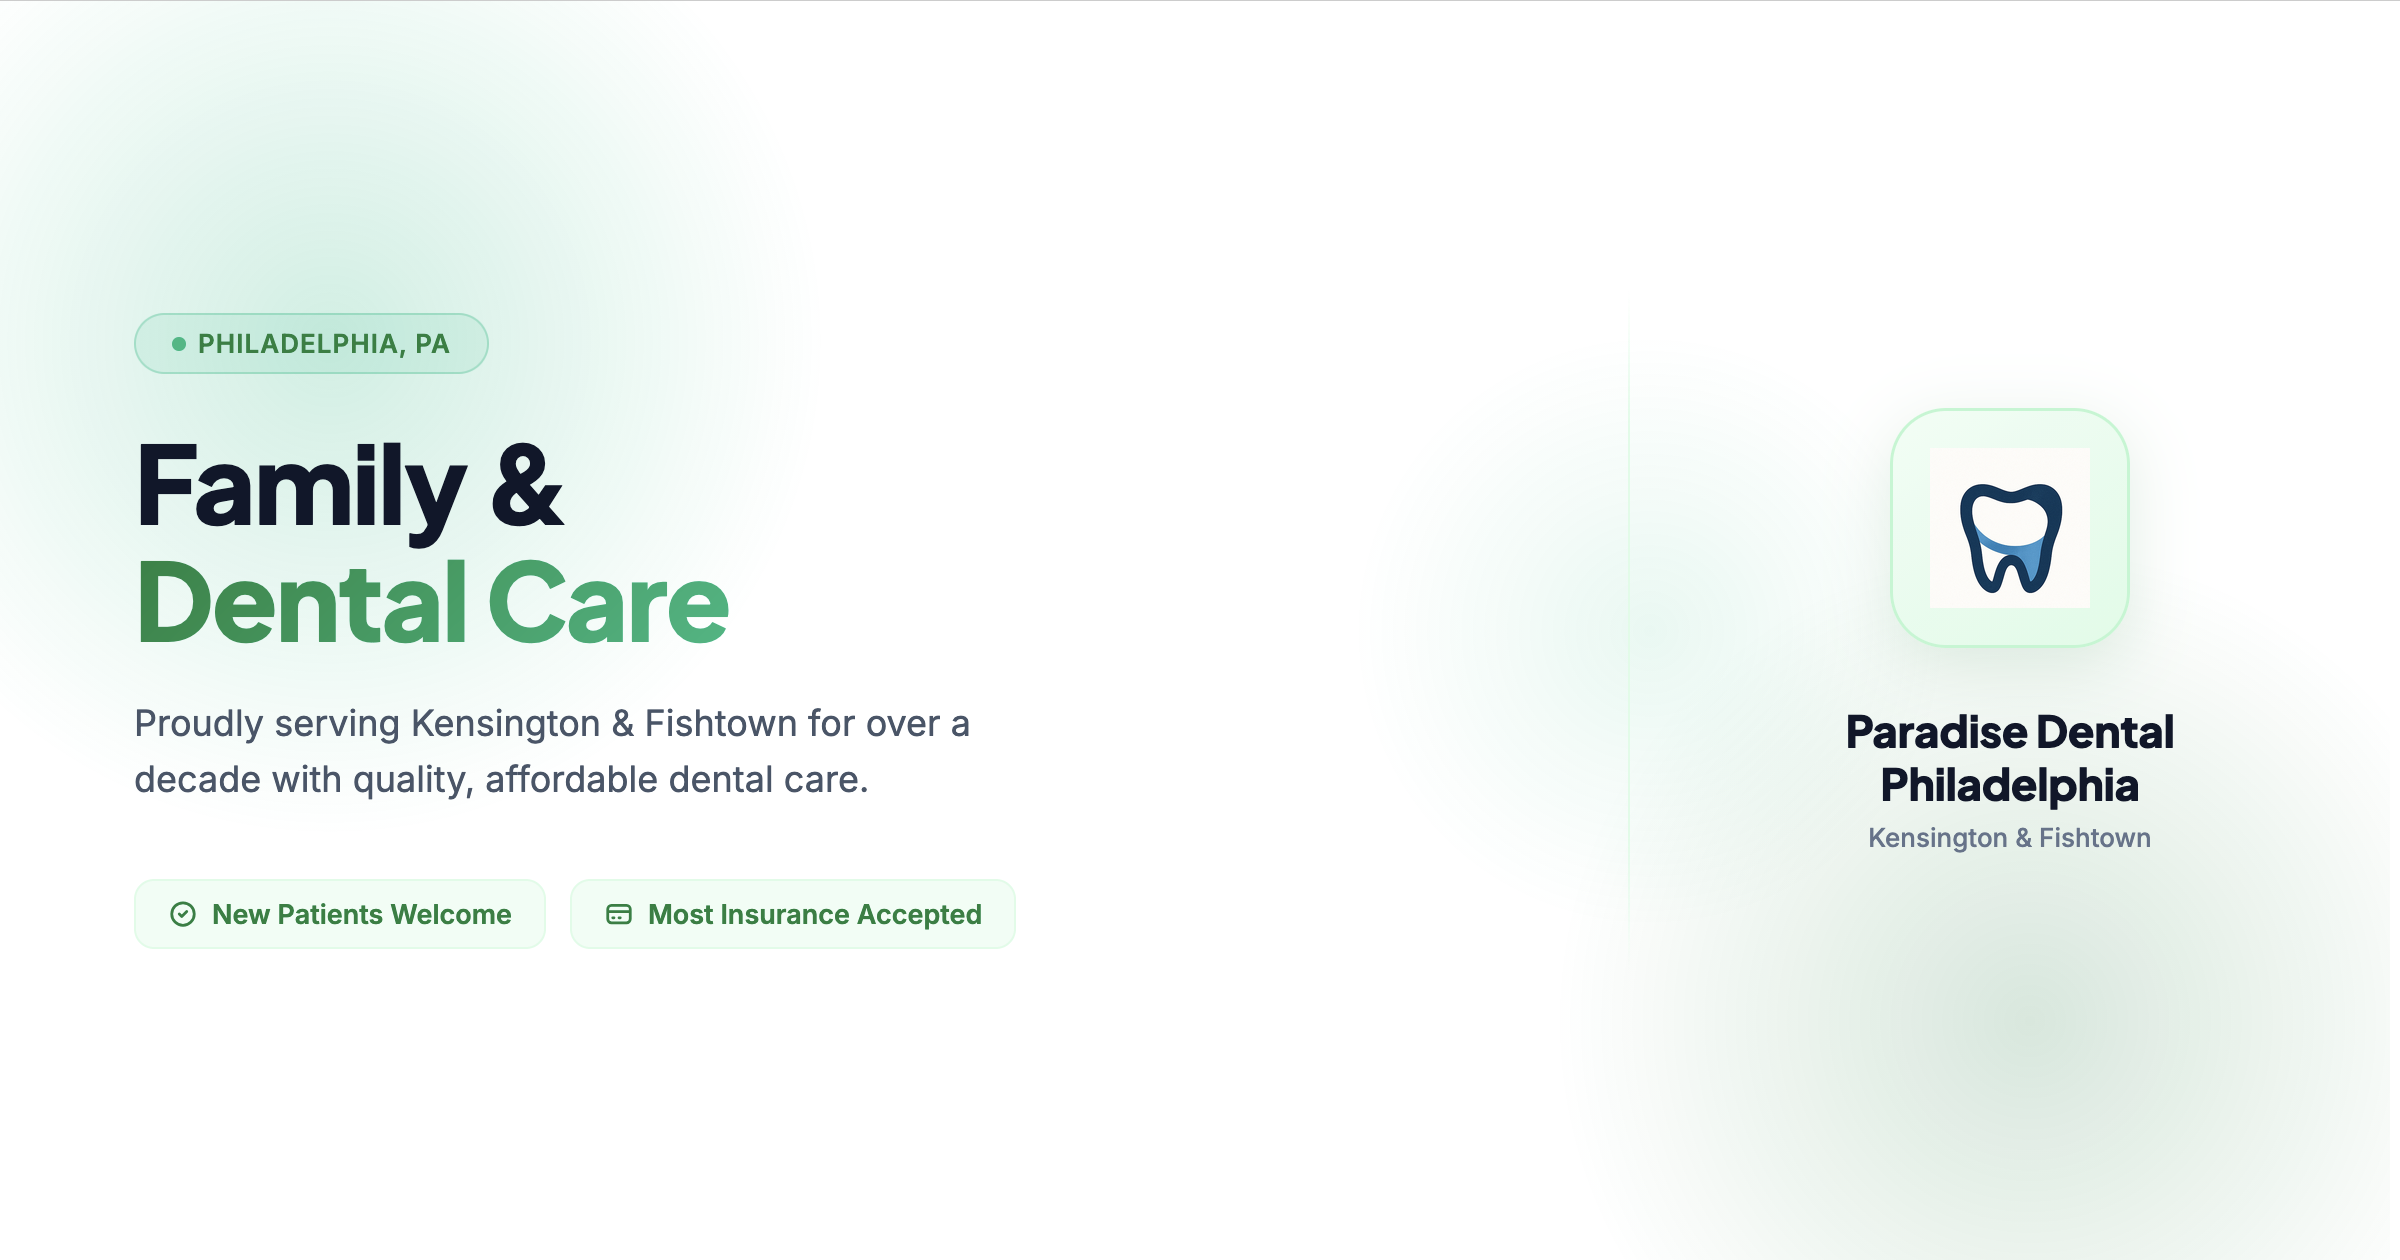
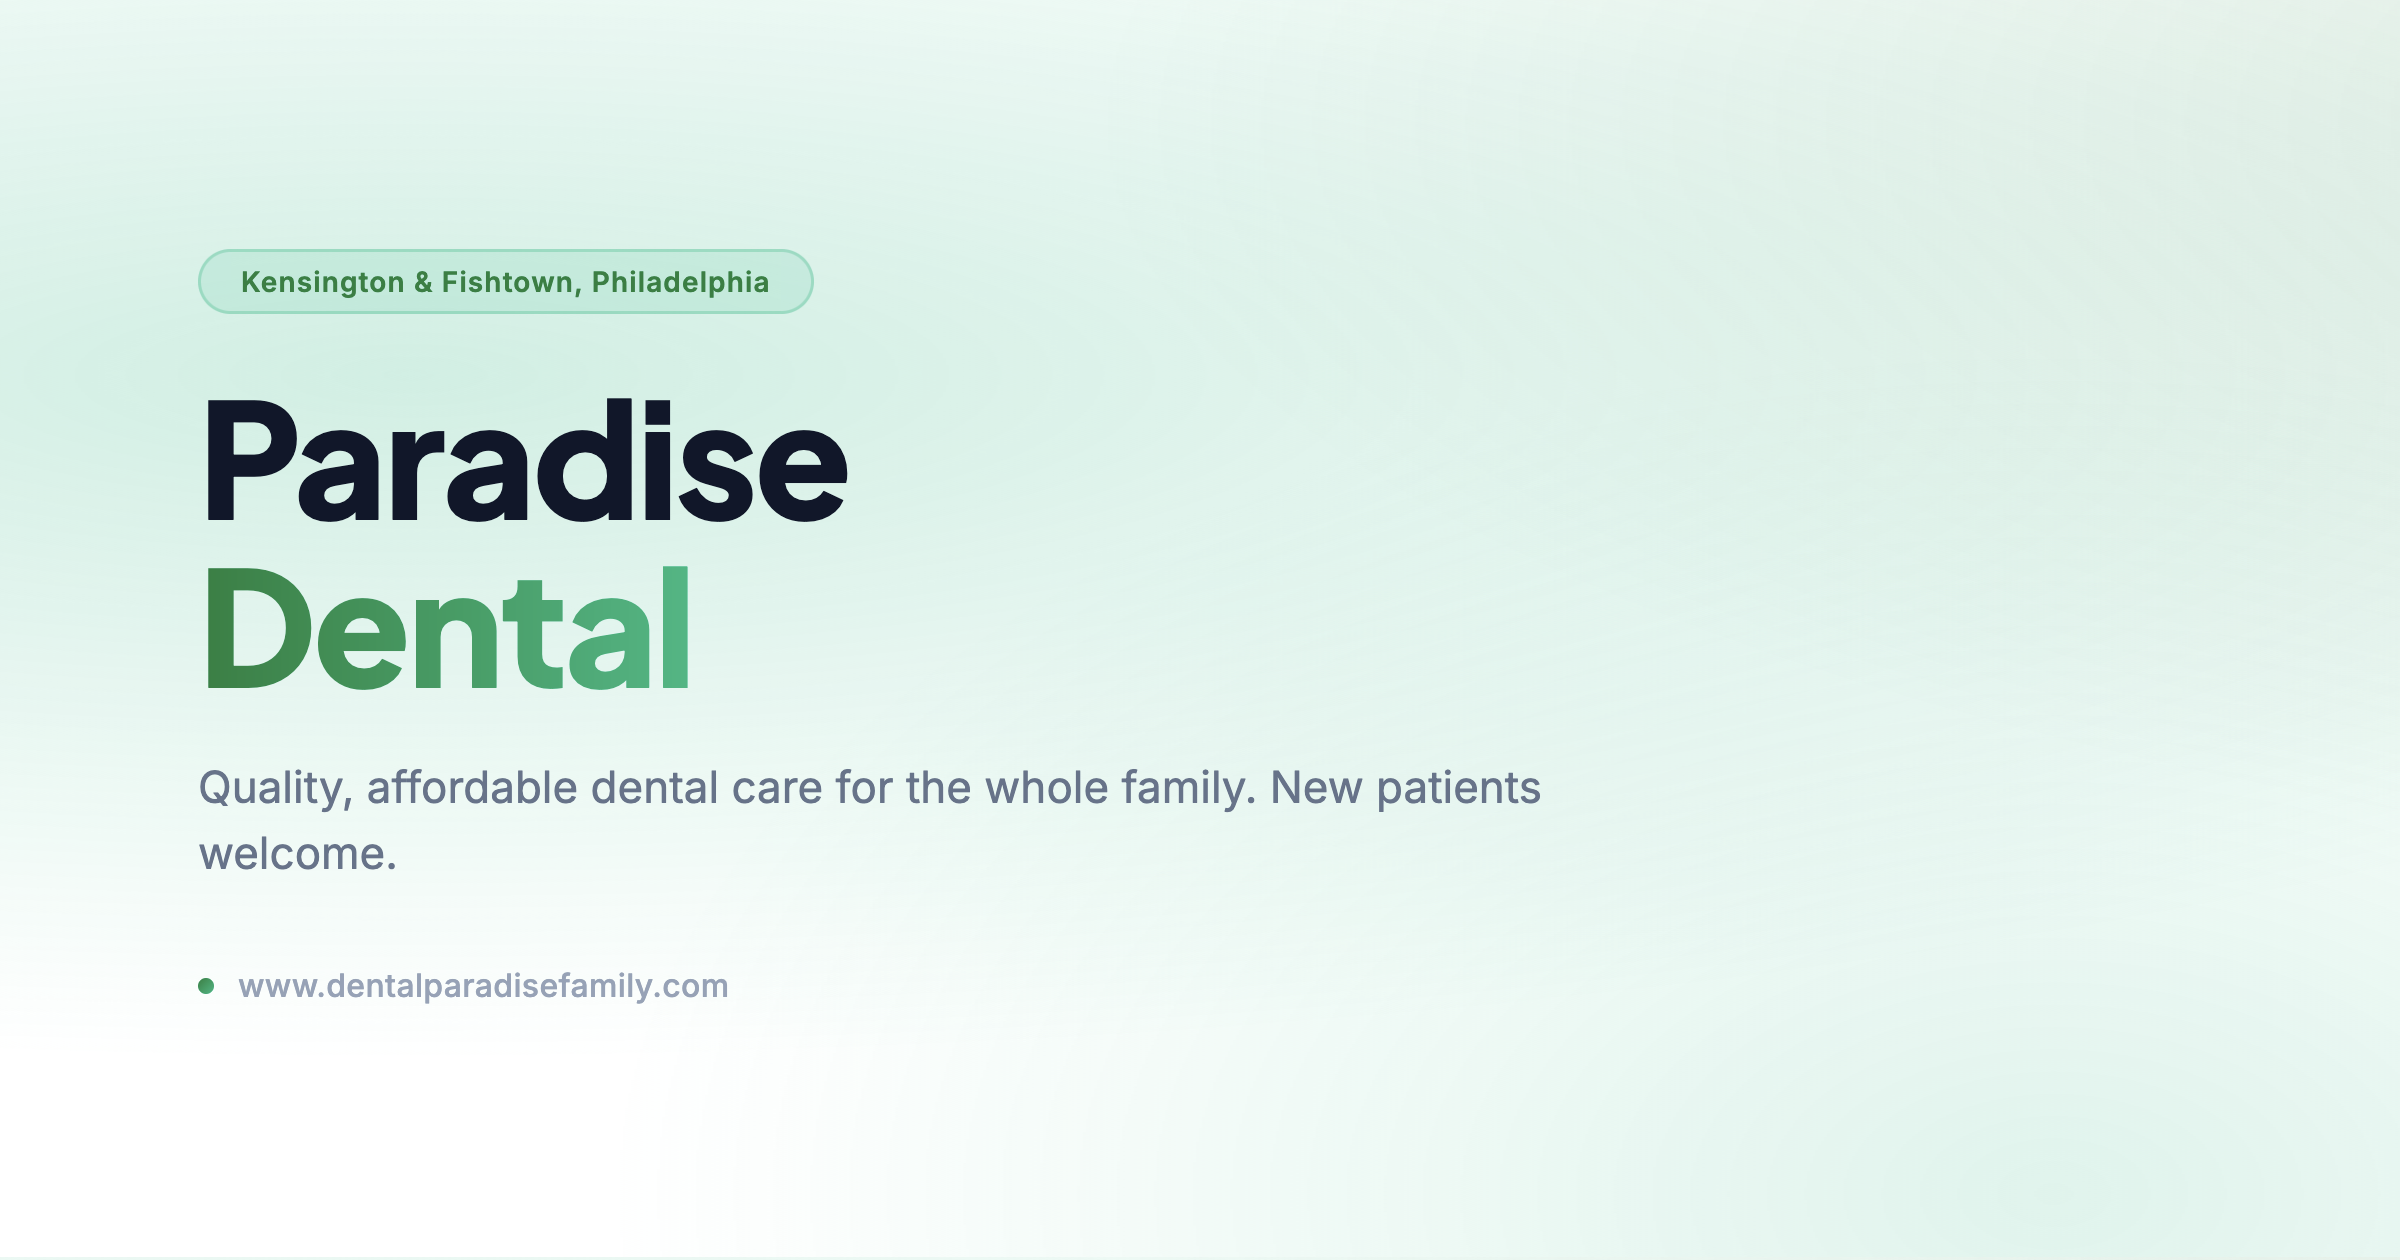
fixed image

diff --git a/og-card.html b/og-card.html
@@ -2,8 +2,8 @@
 <html lang="en">
 <head>
   <meta charset="UTF-8">
-  <meta name="viewport" content="width=1200">
-  <title>OG Card – Paradise Dental</title>
+  <meta name="viewport" content="width=device-width, initial-scale=1.0">
+  <title>OG Card — Paradise Dental</title>
   <link href="https://fonts.googleapis.com/css2?family=Inter:wght@400;500;600&family=Plus+Jakarta+Sans:wght@700;800&display=swap" rel="stylesheet">
   <style>
     * { margin: 0; padding: 0; box-sizing: border-box; }
@@ -13,234 +13,84 @@
       height: 630px;
       overflow: hidden;
       font-family: 'Inter', sans-serif;
-      background: #ffffff;
-    }
-
-    .card {
-      width: 1200px;
-      height: 630px;
-      position: relative;
-      display: flex;
-      align-items: center;
-      background: #ffffff;
-      overflow: hidden;
-    }
-
-    /* Green radial blobs */
-    .blob-tl {
-      position: absolute;
-      top: -80px; left: -80px;
-      width: 500px; height: 500px;
-      border-radius: 50%;
-      background: radial-gradient(circle, rgba(16,185,129,0.22) 0%, transparent 70%);
-      pointer-events: none;
-    }
-    .blob-br {
-      position: absolute;
-      bottom: -120px; right: -60px;
-      width: 480px; height: 480px;
-      border-radius: 50%;
-      background: radial-gradient(circle, rgba(21,128,61,0.18) 0%, transparent 70%);
-      pointer-events: none;
-    }
-    .blob-mid {
-      position: absolute;
-      top: 50%; right: 220px;
-      transform: translateY(-50%);
-      width: 300px; height: 300px;
-      border-radius: 50%;
-      background: radial-gradient(circle, rgba(16,185,129,0.10) 0%, transparent 70%);
-      pointer-events: none;
-    }
-
-    /* Left content pane */
-    .left {
-      position: relative;
-      z-index: 2;
-      flex: 1;
-      padding: 0 72px;
+      background-color: #ffffff;
+      background-image:
+        radial-gradient(ellipse at 10% 30%, rgba(16,185,129,0.22) 0%, transparent 55%),
+        radial-gradient(ellipse at 90% 10%, rgba(21,128,61,0.20) 0%, transparent 50%),
+        radial-gradient(ellipse at 50% 95%, rgba(16,185,129,0.15) 0%, transparent 50%);
       display: flex;
       flex-direction: column;
       justify-content: center;
-      gap: 0;
+      padding: 80px 100px;
     }
 
     .pill {
-      display: inline-flex;
-      align-items: center;
-      gap: 6px;
-      background: rgba(16,185,129,0.10);
-      border: 1px solid rgba(16,185,129,0.30);
+      display: inline-block;
+      background: rgba(16,185,129,0.12);
+      border: 1.5px solid rgba(16,185,129,0.3);
       color: #15803d;
       border-radius: 9999px;
-      padding: 6px 18px;
-      font-size: 13px;
+      padding: 6px 20px;
+      font-size: 14px;
       font-weight: 600;
       letter-spacing: 0.04em;
-      text-transform: uppercase;
+      margin-bottom: 28px;
       width: fit-content;
-      margin-bottom: 24px;
-    }
-    .pill-dot {
-      width: 7px; height: 7px;
-      border-radius: 50%;
-      background: #10b981;
     }
 
     h1 {
       font-family: 'Plus Jakarta Sans', sans-serif;
+      font-size: 80px;
       font-weight: 800;
-      font-size: 54px;
-      line-height: 1.08;
-      color: #0f172a;
+      line-height: 1.05;
       letter-spacing: -0.02em;
-      margin-bottom: 20px;
+      color: #0f172a;
+      margin-bottom: 24px;
     }
+
     h1 span {
-      background: linear-gradient(135deg, #15803d, #10b981);
+      background: linear-gradient(90deg, #15803d, #10b981);
       -webkit-background-clip: text;
       -webkit-text-fill-color: transparent;
       background-clip: text;
     }
 
-    .tagline {
-      font-size: 18px;
-      font-weight: 400;
-      color: #475569;
-      line-height: 1.55;
-      max-width: 420px;
-      margin-bottom: 36px;
-    }
-
-    .badges {
-      display: flex;
-      gap: 12px;
-      flex-wrap: wrap;
-    }
-    .badge {
-      display: flex;
-      align-items: center;
-      gap: 7px;
-      background: #f0fdf4;
-      border: 1px solid #dcfce7;
-      border-radius: 10px;
-      padding: 8px 16px;
-      font-size: 13.5px;
-      font-weight: 600;
-      color: #15803d;
-    }
-    .badge svg { flex-shrink: 0; }
-
-    /* Divider */
-    .divider-v {
-      position: relative;
-      z-index: 2;
-      width: 1px;
-      height: 340px;
-      background: linear-gradient(180deg, transparent 0%, #dcfce7 20%, #dcfce7 80%, transparent 100%);
-      flex-shrink: 0;
-    }
-
-    /* Right pane */
-    .right {
-      position: relative;
-      z-index: 2;
-      width: 380px;
-      display: flex;
-      flex-direction: column;
-      align-items: center;
-      justify-content: center;
-      gap: 28px;
-      padding: 0 56px;
-    }
-
-    .logo-wrap {
-      width: 120px;
-      height: 120px;
-      border-radius: 28px;
-      background: linear-gradient(145deg, #f0fdf4, #dcfce7);
-      border: 1.5px solid #bbf7d0;
-      display: flex;
-      align-items: center;
-      justify-content: center;
-      box-shadow: 0 8px 32px rgba(21,128,61,0.14);
-    }
-    .logo-wrap img {
-      width: 80px;
-      height: 80px;
-      object-fit: contain;
-    }
-
-    .right-info {
-      text-align: center;
-      display: flex;
-      flex-direction: column;
-      gap: 6px;
-    }
-    .right-name {
-      font-family: 'Plus Jakarta Sans', sans-serif;
-      font-weight: 800;
+    p {
       font-size: 22px;
-      color: #0f172a;
-      letter-spacing: -0.01em;
-      line-height: 1.2;
-    }
-    .right-sub {
-      font-size: 13px;
-      font-weight: 500;
       color: #64748b;
+      line-height: 1.5;
+      max-width: 680px;
+      margin-bottom: 40px;
     }
 
+    .footer {
+      display: flex;
+      align-items: center;
+      gap: 12px;
+    }
+
+    .dot {
+      width: 8px;
+      height: 8px;
+      border-radius: 50%;
+      background: linear-gradient(135deg, #15803d, #10b981);
+    }
+
+    .url {
+      font-size: 16px;
+      font-weight: 500;
+      color: #94a3b8;
+      letter-spacing: 0.01em;
+    }
   </style>
 </head>
 <body>
-<div class="card">
-  <div class="blob-tl"></div>
-  <div class="blob-br"></div>
-  <div class="blob-mid"></div>
-
-  <!-- Left -->
-  <div class="left">
-    <div class="pill">
-      <span class="pill-dot"></span>
-      Philadelphia, PA
-    </div>
-
-    <h1>Family &amp;<br><span>Dental Care</span></h1>
-
-    <p class="tagline">Proudly serving Kensington &amp; Fishtown for over a decade with quality, affordable dental care.</p>
-
-    <div class="badges">
-      <div class="badge">
-        <svg width="15" height="15" fill="none" viewBox="0 0 24 24" stroke="#15803d" stroke-width="2.2">
-          <path stroke-linecap="round" stroke-linejoin="round" d="M9 12l2 2 4-4m6 2a9 9 0 11-18 0 9 9 0 0118 0z"/>
-        </svg>
-        New Patients Welcome
-      </div>
-      <div class="badge">
-        <svg width="15" height="15" fill="none" viewBox="0 0 24 24" stroke="#15803d" stroke-width="2.2">
-          <path stroke-linecap="round" stroke-linejoin="round" d="M3 10h18M7 15h1m4 0h1m-7 4h12a3 3 0 003-3V8a3 3 0 00-3-3H6a3 3 0 00-3 3v8a3 3 0 003 3z"/>
-        </svg>
-        Most Insurance Accepted
-      </div>
-    </div>
+  <div class="pill">Kensington &amp; Fishtown, Philadelphia</div>
+  <h1>Paradise<br><span>Dental</span></h1>
+  <p>Quality, affordable dental care for the whole family. New patients welcome.</p>
+  <div class="footer">
+    <div class="dot"></div>
+    <span class="url">www.dentalparadisefamily.com</span>
   </div>
-
-  <!-- Vertical divider -->
-  <div class="divider-v"></div>
-
-  <!-- Right -->
-  <div class="right">
-    <div class="logo-wrap">
-      <img src="assets/images/usa_logo.png" alt="Paradise Dental Logo">
-    </div>
-
-    <div class="right-info">
-      <div class="right-name">Paradise Dental<br>Philadelphia</div>
-      <div class="right-sub">Kensington &amp; Fishtown</div>
-    </div>
-
-  </div>
-</div>
 </body>
 </html>
